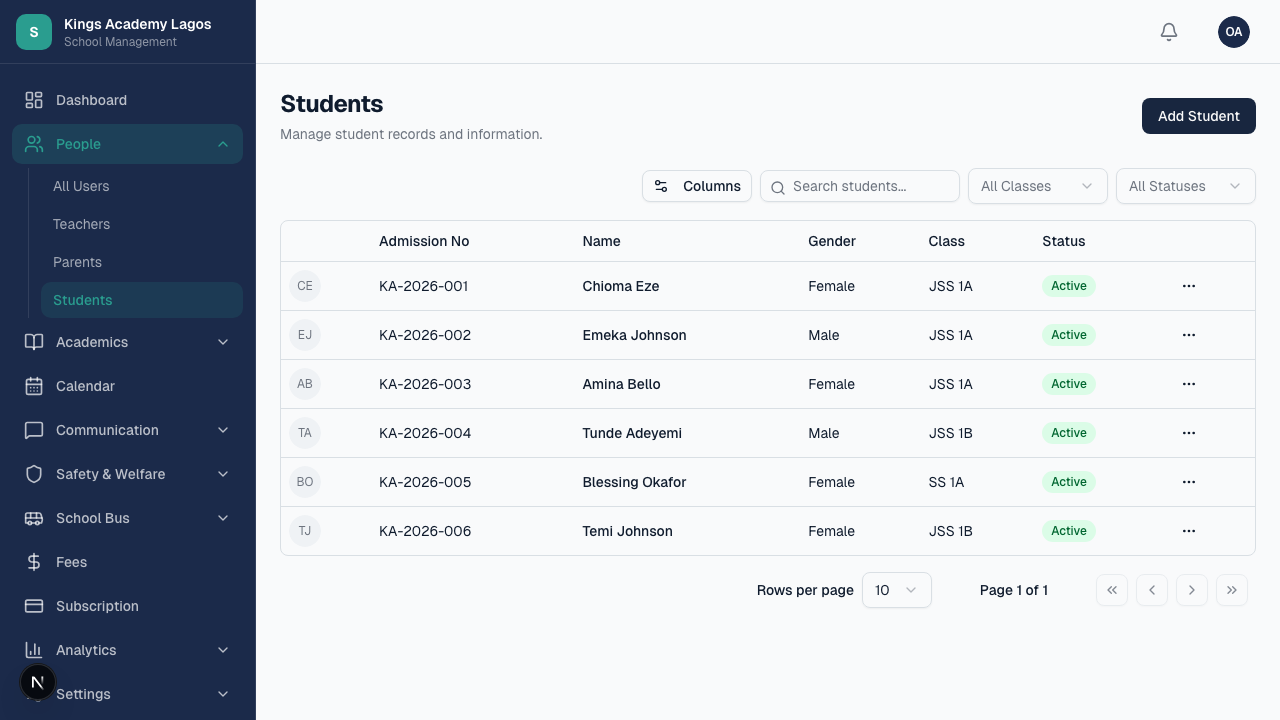
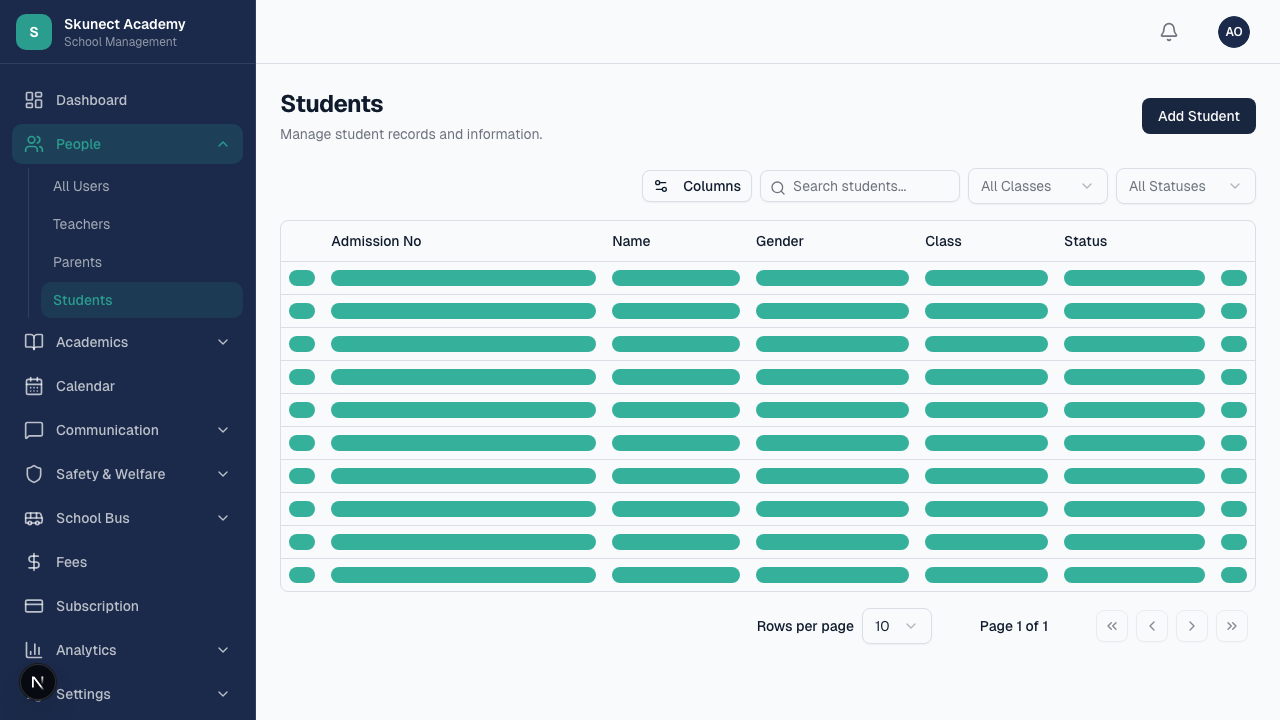
feat: replace screenshots with Skunect Academy demo school
Replace all marketing screenshots (web + mobile) to use the new
Skunect Academy test school instead of Kings Academy, avoiding
potential liability from using a real school's name in public
materials. Update E2E fixtures to add Skunect Academy test accounts
and screenshot capture spec to use them.

diff --git a/e2e/specs/screenshots/capture-screenshots.spec.ts b/e2e/specs/screenshots/capture-screenshots.spec.ts
@@ -24,150 +24,150 @@ async function waitForPageLoad(page: import('@playwright/test').Page) {
   await page.waitForTimeout(1000);
 }
 
-// ─── Admin Screenshots ───────────────────────────────────────────────
+// ─── Admin Screenshots (Skunect Academy) ────────────────────────────
 
 test.describe('Admin screenshots', () => {
-  test('dashboard', async ({ adminPage: page }) => {
+  test('dashboard', async ({ adminSkunectPage: page }) => {
     await page.goto('/dashboard');
     await waitForPageLoad(page);
     await page.screenshot(screenshotOpts('admin-dashboard'));
   });
 
-  test('students list', async ({ adminPage: page }) => {
+  test('students list', async ({ adminSkunectPage: page }) => {
     await page.goto('/students');
     await waitForPageLoad(page);
     await page.screenshot(screenshotOpts('admin-students'));
   });
 
-  test('attendance', async ({ adminPage: page }) => {
+  test('attendance', async ({ adminSkunectPage: page }) => {
     await page.goto('/attendance');
     await waitForPageLoad(page);
     await page.screenshot(screenshotOpts('admin-attendance'));
   });
 
-  test('homework', async ({ adminPage: page }) => {
+  test('homework', async ({ adminSkunectPage: page }) => {
     await page.goto('/homework');
     await waitForPageLoad(page);
     await page.screenshot(screenshotOpts('admin-homework'));
   });
 
-  test('fees', async ({ adminPage: page }) => {
+  test('fees', async ({ adminSkunectPage: page }) => {
     await page.goto('/fees');
     await waitForPageLoad(page);
     await page.screenshot(screenshotOpts('admin-fees'));
   });
 
-  test('messages', async ({ adminPage: page }) => {
-    await page.goto('/messages');
+  test('messages', async ({ adminSkunectPage: page }) => {
+    await page.goto('/communication/messages');
     await waitForPageLoad(page);
     await page.screenshot(screenshotOpts('admin-messages'));
   });
 
-  test('safety alerts', async ({ adminPage: page }) => {
+  test('safety alerts', async ({ adminSkunectPage: page }) => {
     await page.goto('/safety');
     await waitForPageLoad(page);
     await page.screenshot(screenshotOpts('admin-safety'));
   });
 
-  test('bus management', async ({ adminPage: page }) => {
+  test('bus management', async ({ adminSkunectPage: page }) => {
     await page.goto('/bus');
     await waitForPageLoad(page);
     await page.screenshot(screenshotOpts('admin-bus'));
   });
 
-  test('school settings', async ({ adminPage: page }) => {
+  test('school settings', async ({ adminSkunectPage: page }) => {
     await page.goto('/school-settings');
     await waitForPageLoad(page);
     await page.screenshot(screenshotOpts('admin-settings'));
   });
 
-  test('users management', async ({ adminPage: page }) => {
+  test('users management', async ({ adminSkunectPage: page }) => {
     await page.goto('/users');
     await waitForPageLoad(page);
     await page.screenshot(screenshotOpts('admin-users'));
   });
 
-  test('analytics', async ({ adminPage: page }) => {
+  test('analytics', async ({ adminSkunectPage: page }) => {
     await page.goto('/analytics');
     await waitForPageLoad(page);
     await page.screenshot(screenshotOpts('admin-analytics'));
   });
 });
 
-// ─── Teacher Screenshots ─────────────────────────────────────────────
+// ─── Teacher Screenshots (Skunect Academy) ──────────────────────────
 
 test.describe('Teacher screenshots', () => {
-  test('dashboard', async ({ teacherPage: page }) => {
+  test('dashboard', async ({ teacherSkunectPage: page }) => {
     await page.goto('/dashboard');
     await waitForPageLoad(page);
     await page.screenshot(screenshotOpts('teacher-dashboard'));
   });
 
-  test('my classes', async ({ teacherPage: page }) => {
+  test('my classes', async ({ teacherSkunectPage: page }) => {
     await page.goto('/my-classes');
     await waitForPageLoad(page);
     await page.screenshot(screenshotOpts('teacher-classes'));
   });
 
-  test('attendance', async ({ teacherPage: page }) => {
+  test('attendance', async ({ teacherSkunectPage: page }) => {
     await page.goto('/attendance');
     await waitForPageLoad(page);
     await page.screenshot(screenshotOpts('teacher-attendance'));
   });
 
-  test('homework', async ({ teacherPage: page }) => {
+  test('homework', async ({ teacherSkunectPage: page }) => {
     await page.goto('/homework');
     await waitForPageLoad(page);
     await page.screenshot(screenshotOpts('teacher-homework'));
   });
 
-  test('messages', async ({ teacherPage: page }) => {
-    await page.goto('/messages');
+  test('messages', async ({ teacherSkunectPage: page }) => {
+    await page.goto('/communication/messages');
     await waitForPageLoad(page);
     await page.screenshot(screenshotOpts('teacher-messages'));
   });
 
-  test('welfare', async ({ teacherPage: page }) => {
+  test('welfare', async ({ teacherSkunectPage: page }) => {
     await page.goto('/welfare');
     await waitForPageLoad(page);
     await page.screenshot(screenshotOpts('teacher-welfare'));
   });
 });
 
-// ─── Parent Screenshots ──────────────────────────────────────────────
+// ─── Parent Screenshots (Skunect Academy) ───────────────────────────
 
 test.describe('Parent screenshots', () => {
-  test('dashboard', async ({ parentPage: page }) => {
+  test('dashboard', async ({ parentSkunectPage: page }) => {
     await page.goto('/dashboard');
     await waitForPageLoad(page);
     await page.screenshot(screenshotOpts('parent-dashboard'));
   });
 
-  test('academics / homework', async ({ parentPage: page }) => {
+  test('academics / homework', async ({ parentSkunectPage: page }) => {
     await page.goto('/homework');
     await waitForPageLoad(page);
     await page.screenshot(screenshotOpts('parent-homework'));
   });
 
-  test('attendance', async ({ parentPage: page }) => {
+  test('attendance', async ({ parentSkunectPage: page }) => {
     await page.goto('/attendance');
     await waitForPageLoad(page);
     await page.screenshot(screenshotOpts('parent-attendance'));
   });
 
-  test('fees', async ({ parentPage: page }) => {
+  test('fees', async ({ parentSkunectPage: page }) => {
     await page.goto('/fees');
     await waitForPageLoad(page);
     await page.screenshot(screenshotOpts('parent-fees'));
   });
 
-  test('messages', async ({ parentPage: page }) => {
-    await page.goto('/messages');
+  test('messages', async ({ parentSkunectPage: page }) => {
+    await page.goto('/communication/messages');
     await waitForPageLoad(page);
     await page.screenshot(screenshotOpts('parent-messages'));
   });
 
-  test('safety / pickup', async ({ parentPage: page }) => {
+  test('safety / pickup', async ({ parentSkunectPage: page }) => {
     await page.goto('/safety/pickup');
     await waitForPageLoad(page);
     await page.screenshot(screenshotOpts('parent-pickup'));

diff --git a/e2e/fixtures/test-accounts.ts b/e2e/fixtures/test-accounts.ts
@@ -170,6 +170,64 @@ export const TEST_ACCOUNTS = {
     expectedNavItems: [], // depends on which school selected
     blockedRoutes: [],
   },
+  // Skunect Academy — used for marketing screenshots
+  adminSkunect: {
+    email: 'admin@skunect.academy',
+    otp: TEST_OTP,
+    expectedRole: 'ADMIN',
+    expectedSchoolName: 'Skunect Academy',
+    expectedSchoolId: null,
+    storageStatePath: '.auth/admin-skunect.json',
+    expectedNavItems: [
+      'Dashboard',
+      'People',
+      'Academics',
+      'Communication',
+      'Safety & Welfare',
+      'Fees',
+      'Subscription',
+      'Analytics',
+      'Settings',
+      'Help & Support',
+    ],
+    blockedRoutes: ['/system/schools', '/system/seed'],
+  },
+  teacherSkunect: {
+    email: 'teacher1@skunect.academy',
+    otp: TEST_OTP,
+    expectedRole: 'TEACHER',
+    expectedSchoolName: 'Skunect Academy',
+    expectedSchoolId: null,
+    storageStatePath: '.auth/teacher-skunect.json',
+    expectedNavItems: [
+      'Dashboard',
+      'Students',
+      'My Classes',
+      'Academics',
+      'Communication',
+      'Safety & Welfare',
+      'Notification Preferences',
+      'Help & Support',
+    ],
+    blockedRoutes: ['/system/schools', '/system/seed', '/school-settings', '/users', '/fees', '/data-migration'],
+  },
+  parentSkunect: {
+    email: 'parent@skunect.academy',
+    otp: TEST_OTP,
+    expectedRole: 'PARENT',
+    expectedSchoolName: 'Skunect Academy',
+    expectedSchoolId: null,
+    storageStatePath: '.auth/parent-skunect.json',
+    expectedNavItems: ['Dashboard', 'My Children', 'Homework', 'Communication', 'Fees', 'Notification Preferences', 'Help & Support'],
+    blockedRoutes: [
+      '/system/schools',
+      '/system/seed',
+      '/school-settings',
+      '/users',
+      '/attendance',
+      '/data-migration',
+    ],
+  },
 } as const satisfies Record<string, TestAccount>;
 
 export type TestAccountKey = keyof typeof TEST_ACCOUNTS;

diff --git a/e2e/fixtures/auth.fixture.ts b/e2e/fixtures/auth.fixture.ts
@@ -32,6 +32,12 @@ type AuthFixtures = {
   superAdminPage: Page;
   /** Pre-authenticated page for TEACHER+PARENT dual role */
   teacherParentPage: Page;
+  /** Pre-authenticated page for ADMIN @ Skunect Academy (screenshots) */
+  adminSkunectPage: Page;
+  /** Pre-authenticated page for TEACHER @ Skunect Academy (screenshots) */
+  teacherSkunectPage: Page;
+  /** Pre-authenticated page for PARENT @ Skunect Academy (screenshots) */
+  parentSkunectPage: Page;
 };
 
 export const test = base.extend<AuthFixtures>({
@@ -110,6 +116,33 @@ export const test = base.extend<AuthFixtures>({
   teacherParentPage: async ({ browser }, use) => {
     const context = await browser.newContext({
       storageState: TEST_ACCOUNTS.teacherParent.storageStatePath,
+    });
+    const page = await context.newPage();
+    await use(page);
+    await context.close();
+  },
+
+  adminSkunectPage: async ({ browser }, use) => {
+    const context = await browser.newContext({
+      storageState: TEST_ACCOUNTS.adminSkunect.storageStatePath,
+    });
+    const page = await context.newPage();
+    await use(page);
+    await context.close();
+  },
+
+  teacherSkunectPage: async ({ browser }, use) => {
+    const context = await browser.newContext({
+      storageState: TEST_ACCOUNTS.teacherSkunect.storageStatePath,
+    });
+    const page = await context.newPage();
+    await use(page);
+    await context.close();
+  },
+
+  parentSkunectPage: async ({ browser }, use) => {
+    const context = await browser.newContext({
+      storageState: TEST_ACCOUNTS.parentSkunect.storageStatePath,
     });
     const page = await context.newPage();
     await use(page);
